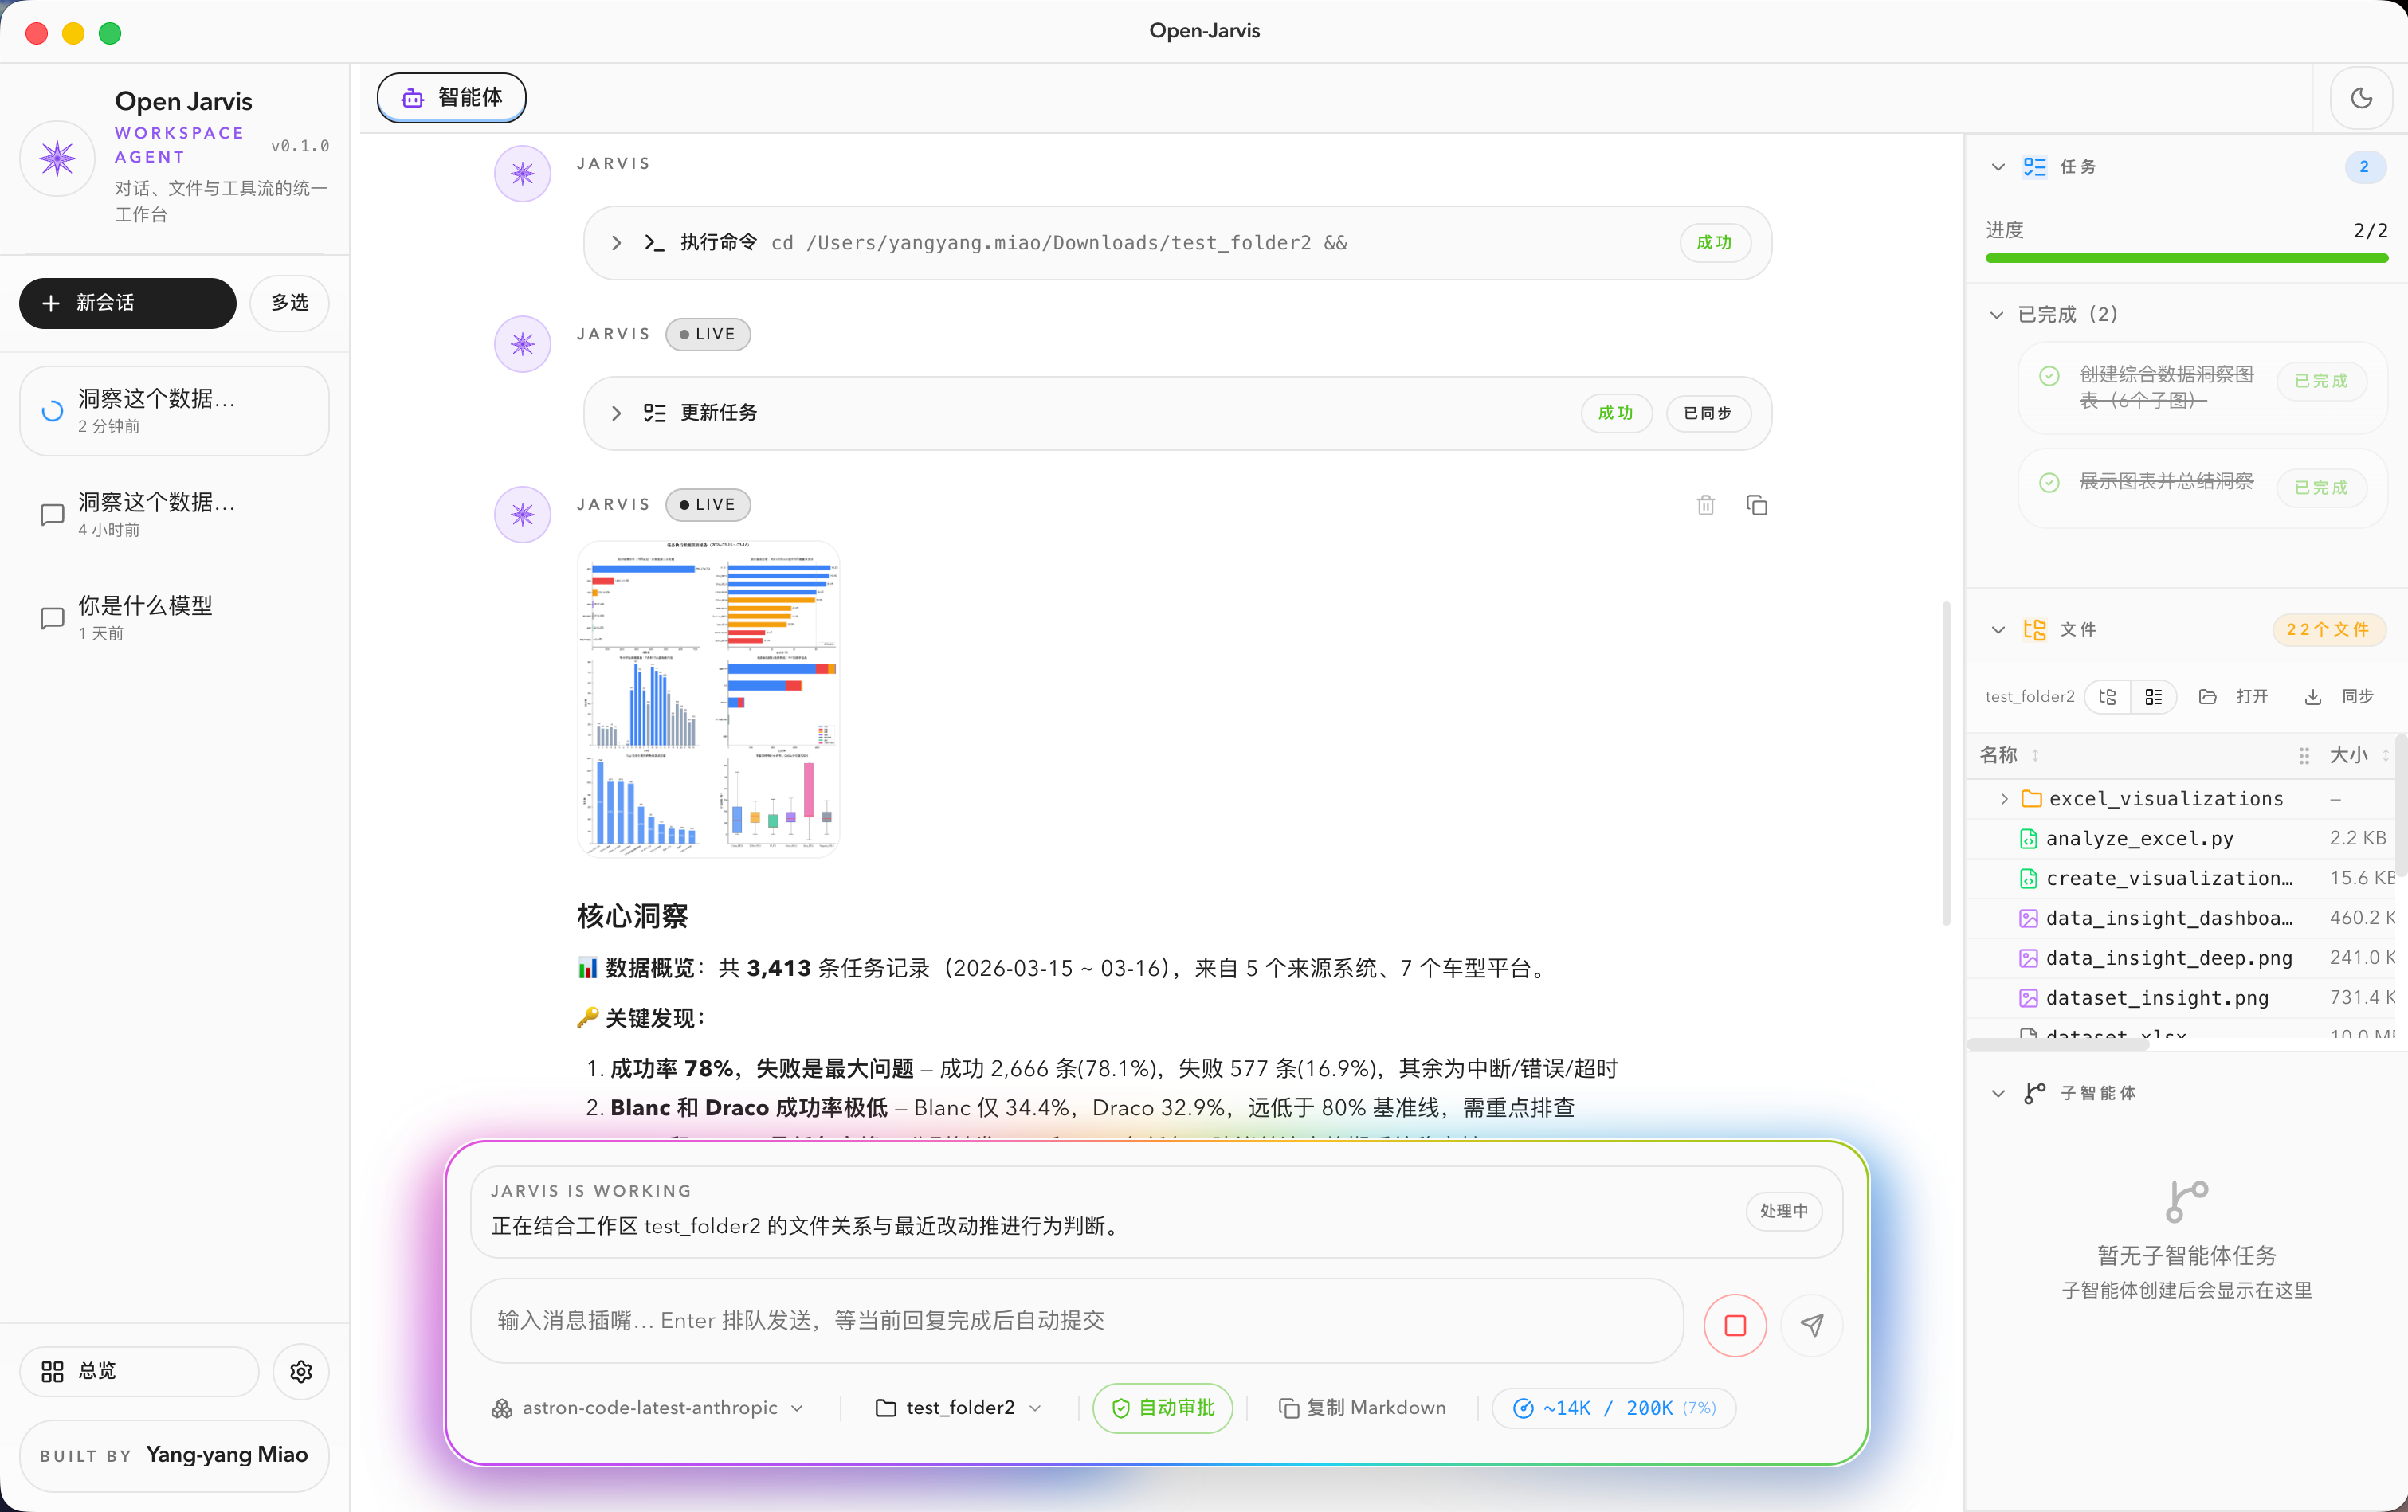
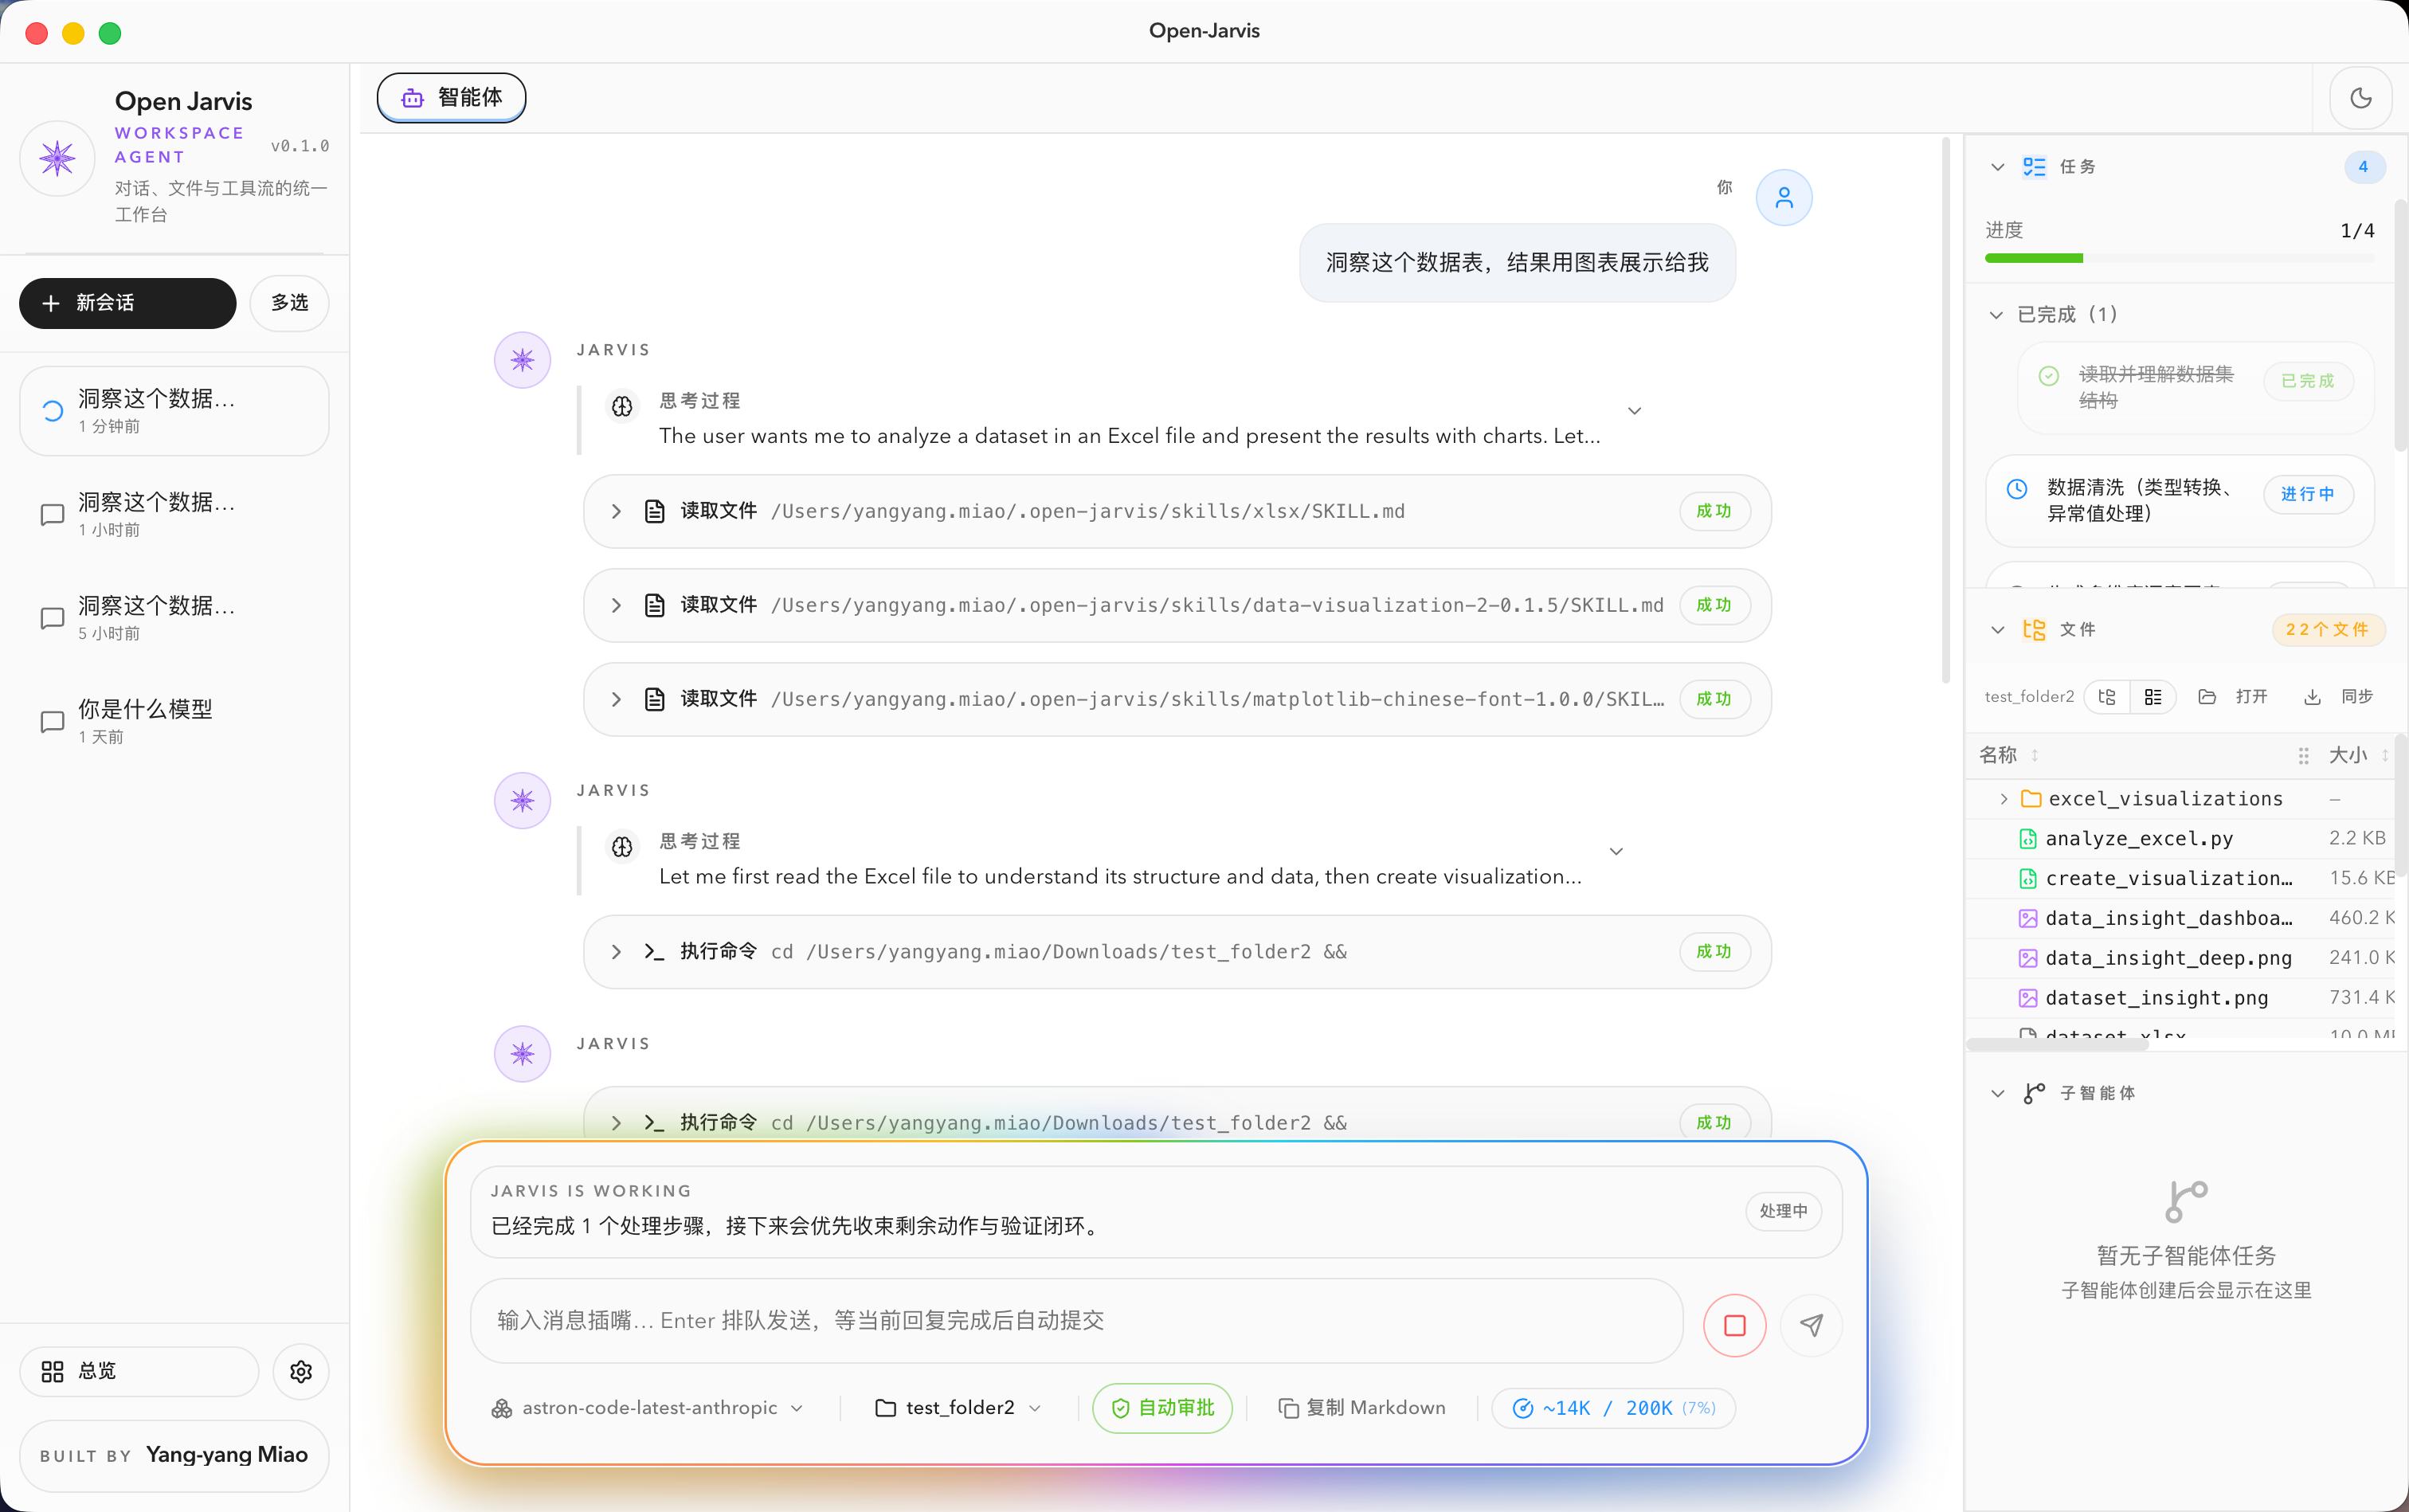
feat(docs)：更新文档

diff --git a/README.md b/README.md
@@ -28,6 +28,30 @@ interruption queue, and full local sandbox execution.
     <td><img src="docs/主界面-深色.png" alt="Main Dark" width="480" /></td>
   </tr>
   <tr>
+    <td align="center"><b>Result - Light</b></td>
+    <td align="center"><b>Result - Dark</b></td>
+  </tr>
+  <tr>
+    <td><img src="docs/结果展示-亮色.png" alt="Result Light" width="480" /></td>
+    <td><img src="docs/结果展示-深色.png" alt="Result Dark" width="480" /></td>
+  </tr>
+  <tr>
+    <td align="center"><b>HITL Approval - Light</b></td>
+    <td align="center"><b>HITL Approval - Dark</b></td>
+  </tr>
+  <tr>
+    <td><img src="docs/人工审批-亮色.png" alt="HITL Light" width="480" /></td>
+    <td><img src="docs/人工审批-深色.png" alt="HITL Dark" width="480" /></td>
+  </tr>
+  <tr>
+    <td align="center"><b>File Preview - Light</b></td>
+    <td align="center"><b>File Preview - Dark</b></td>
+  </tr>
+  <tr>
+    <td><img src="docs/文件预览-亮色.png" alt="File Preview Light" width="480" /></td>
+    <td><img src="docs/文件预览-深色.png" alt="File Preview Dark" width="480" /></td>
+  </tr>
+  <tr>
     <td align="center"><b>Settings - Light</b></td>
     <td align="center"><b>Settings - Dark</b></td>
   </tr>
@@ -176,14 +200,10 @@ Opens the Electron window with hot reload for both main and renderer processes.
 ### Build & Package
 
 ```bash
-# Type check + build
-bun run build
-
-# Package as local runnable directory
-bun run package:dir
-
-# Generate distribution package
-bun run dist
+bun run dist              # Current platform
+bun run dist:mac          # macOS (.dmg)
+bun run dist:win          # Windows (NSIS installer)
+bun run dist:linux        # Linux (AppImage + tar.gz)
 ```
 
 ### Embedded Toolchain Preparation
@@ -370,6 +390,30 @@ This project is licensed under the [Apache License 2.0](LICENSE).
   <tr>
     <td><img src="docs/主界面-亮色.png" alt="主界面-亮色" width="480" /></td>
     <td><img src="docs/主界面-深色.png" alt="主界面-深色" width="480" /></td>
+  </tr>
+  <tr>
+    <td align="center"><b>结果展示 - 亮色</b></td>
+    <td align="center"><b>结果展示 - 深色</b></td>
+  </tr>
+  <tr>
+    <td><img src="docs/结果展示-亮色.png" alt="结果展示-亮色" width="480" /></td>
+    <td><img src="docs/结果展示-深色.png" alt="结果展示-深色" width="480" /></td>
+  </tr>
+  <tr>
+    <td align="center"><b>人工审批 - 亮色</b></td>
+    <td align="center"><b>人工审批 - 深色</b></td>
+  </tr>
+  <tr>
+    <td><img src="docs/人工审批-亮色.png" alt="人工审批-亮色" width="480" /></td>
+    <td><img src="docs/人工审批-深色.png" alt="人工审批-深色" width="480" /></td>
+  </tr>
+  <tr>
+    <td align="center"><b>文件预览 - 亮色</b></td>
+    <td align="center"><b>文件预览 - 深色</b></td>
+  </tr>
+  <tr>
+    <td><img src="docs/文件预览-亮色.png" alt="文件预览-亮色" width="480" /></td>
+    <td><img src="docs/文件预览-深色.png" alt="文件预览-深色" width="480" /></td>
   </tr>
   <tr>
     <td align="center"><b>设置中枢 - 亮色</b></td>